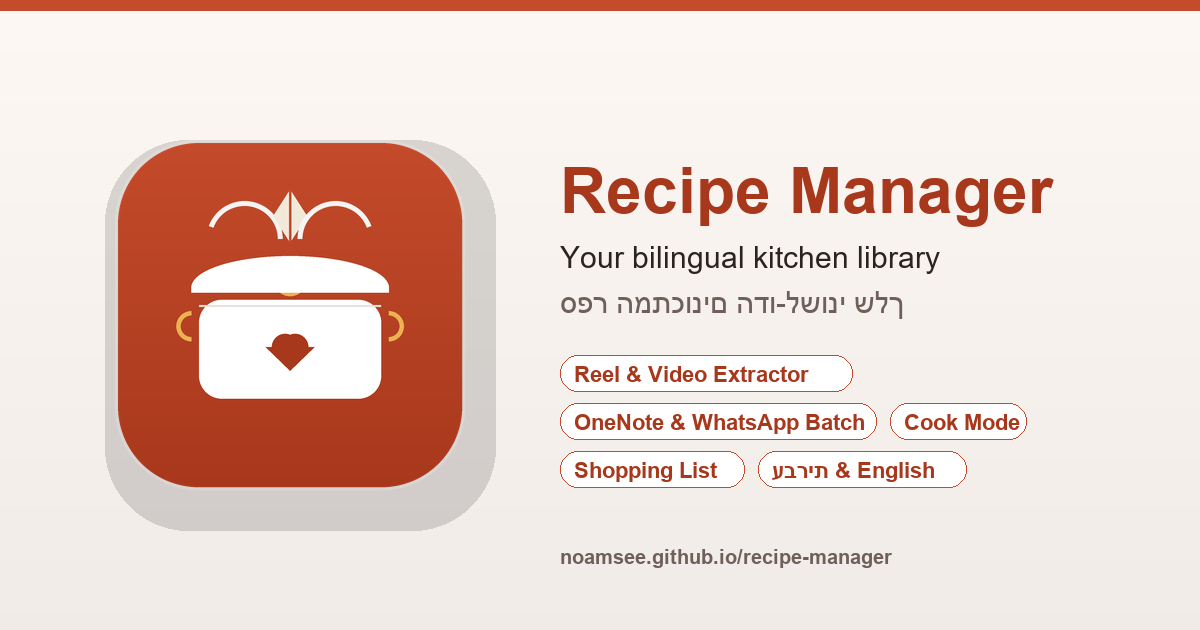
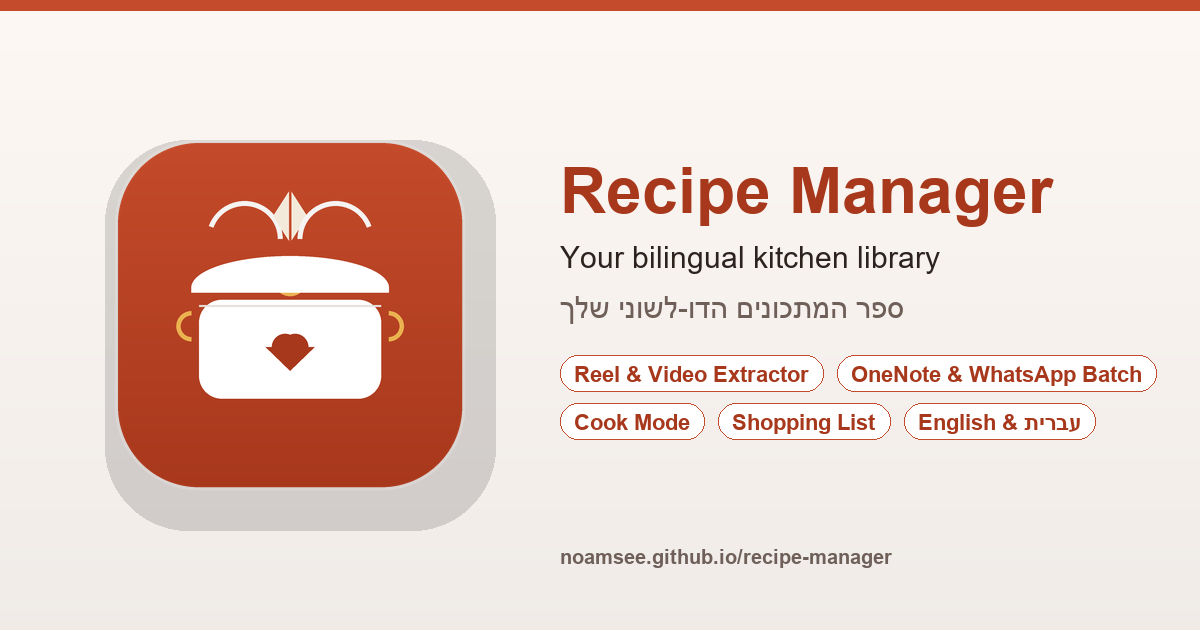
fix: correct Hebrew RTL bidirectional rendering in WhatsApp Open Graph preview card

diff --git a/index.html b/index.html
@@ -20,8 +20,8 @@
   <meta property="og:url" content="https://noamsee.github.io/recipe-manager/" />
   <meta property="og:title" content="Recipe Manager — Bilingual Kitchen Library" />
   <meta property="og:description" content="Your bilingual Hebrew & English kitchen library. Extract recipes from Instagram & Facebook Reels, WhatsApp chats, and OneNote." />
-  <meta property="og:image" content="https://noamsee.github.io/recipe-manager/assets/og-preview.png" />
-  <meta property="og:image:secure_url" content="https://noamsee.github.io/recipe-manager/assets/og-preview.png" />
+  <meta property="og:image" content="https://noamsee.github.io/recipe-manager/assets/og-preview.png?v=2" />
+  <meta property="og:image:secure_url" content="https://noamsee.github.io/recipe-manager/assets/og-preview.png?v=2" />
   <meta property="og:image:type" content="image/png" />
   <meta property="og:image:width" content="1200" />
   <meta property="og:image:height" content="630" />
@@ -31,7 +31,7 @@
   <meta name="twitter:card" content="summary_large_image" />
   <meta name="twitter:title" content="Recipe Manager — Bilingual Kitchen Library" />
   <meta name="twitter:description" content="Your bilingual Hebrew & English kitchen library. Extract recipes from Instagram & Facebook Reels, WhatsApp chats, and OneNote." />
-  <meta name="twitter:image" content="https://noamsee.github.io/recipe-manager/assets/og-preview.png" />
+  <meta name="twitter:image" content="https://noamsee.github.io/recipe-manager/assets/og-preview.png?v=2" />
 
   <link rel="stylesheet" href="css/styles.css?v=5" />
 </head>

diff --git a/share.html b/share.html
@@ -19,8 +19,8 @@
   <meta property="og:site_name" content="Recipe Manager" />
   <meta property="og:title" content="Shared Recipe — Recipe Manager" />
   <meta property="og:description" content="View ingredients, directions, and dietary info with Cook Mode (screen wake-lock) on Recipe Manager." />
-  <meta property="og:image" content="https://noamsee.github.io/recipe-manager/assets/og-preview.png" />
-  <meta property="og:image:secure_url" content="https://noamsee.github.io/recipe-manager/assets/og-preview.png" />
+  <meta property="og:image" content="https://noamsee.github.io/recipe-manager/assets/og-preview.png?v=2" />
+  <meta property="og:image:secure_url" content="https://noamsee.github.io/recipe-manager/assets/og-preview.png?v=2" />
   <meta property="og:image:type" content="image/png" />
   <meta property="og:image:width" content="1200" />
   <meta property="og:image:height" content="630" />
@@ -29,7 +29,7 @@
   <meta name="twitter:card" content="summary_large_image" />
   <meta name="twitter:title" content="Shared Recipe — Recipe Manager" />
   <meta name="twitter:description" content="View ingredients, directions, and dietary info with Cook Mode on Recipe Manager." />
-  <meta name="twitter:image" content="https://noamsee.github.io/recipe-manager/assets/og-preview.png" />
+  <meta name="twitter:image" content="https://noamsee.github.io/recipe-manager/assets/og-preview.png?v=2" />
 
   <link rel="stylesheet" href="css/styles.css?v=4" />
 </head>

diff --git a/generate_assets.py b/generate_assets.py
@@ -3,6 +3,14 @@
 import math
 from pathlib import Path
 from PIL import Image, ImageDraw, ImageFont
+from bidi.algorithm import get_display
+
+def fix_hebrew(text: str) -> str:
+    """Properly shape bidirectional Hebrew text for Pillow rendering."""
+    try:
+        return get_display(text)
+    except Exception:
+        return text
 
 ASSETS_DIR = Path("assets")
 ASSETS_DIR.mkdir(parents=True, exist_ok=True)
@@ -188,7 +196,7 @@ def create_open_graph_image(w: int = 1200, h: int = 630) -> Image.Image:
 
     # Subtitle
     draw.text((text_x, icon_y + 115), "Your bilingual kitchen library", fill=DARK_SLATE, font=subtitle_font)
-    draw.text((text_x, icon_y + 160), "ספר המתכונים הדו-לשוני שלך", fill=MUTED_SLATE, font=subtitle_font)
+    draw.text((text_x, icon_y + 165), fix_hebrew("ספר המתכונים הדו-לשוני שלך"), fill=MUTED_SLATE, font=subtitle_font)
 
     # Feature Pills
     features = [
@@ -196,14 +204,20 @@ def create_open_graph_image(w: int = 1200, h: int = 630) -> Image.Image:
         "OneNote & WhatsApp Batch",
         "Cook Mode",
         "Shopping List",
-        "עברית & English",
+        fix_hebrew("English & עברית"),
     ]
 
     pill_y = icon_y + 230
     curr_x = text_x
     for feat in features:
-        # Approximate width
-        pill_w = len(feat) * 12 + 28
+        # Measure text width using font bounding box
+        try:
+            bbox = pill_font.getbbox(feat)
+            text_w = bbox[2] - bbox[0]
+            pill_w = text_w + 28
+        except Exception:
+            pill_w = len(feat) * 12 + 28
+
         if curr_x + pill_w > w - 40:
             curr_x = text_x
             pill_y += 48
